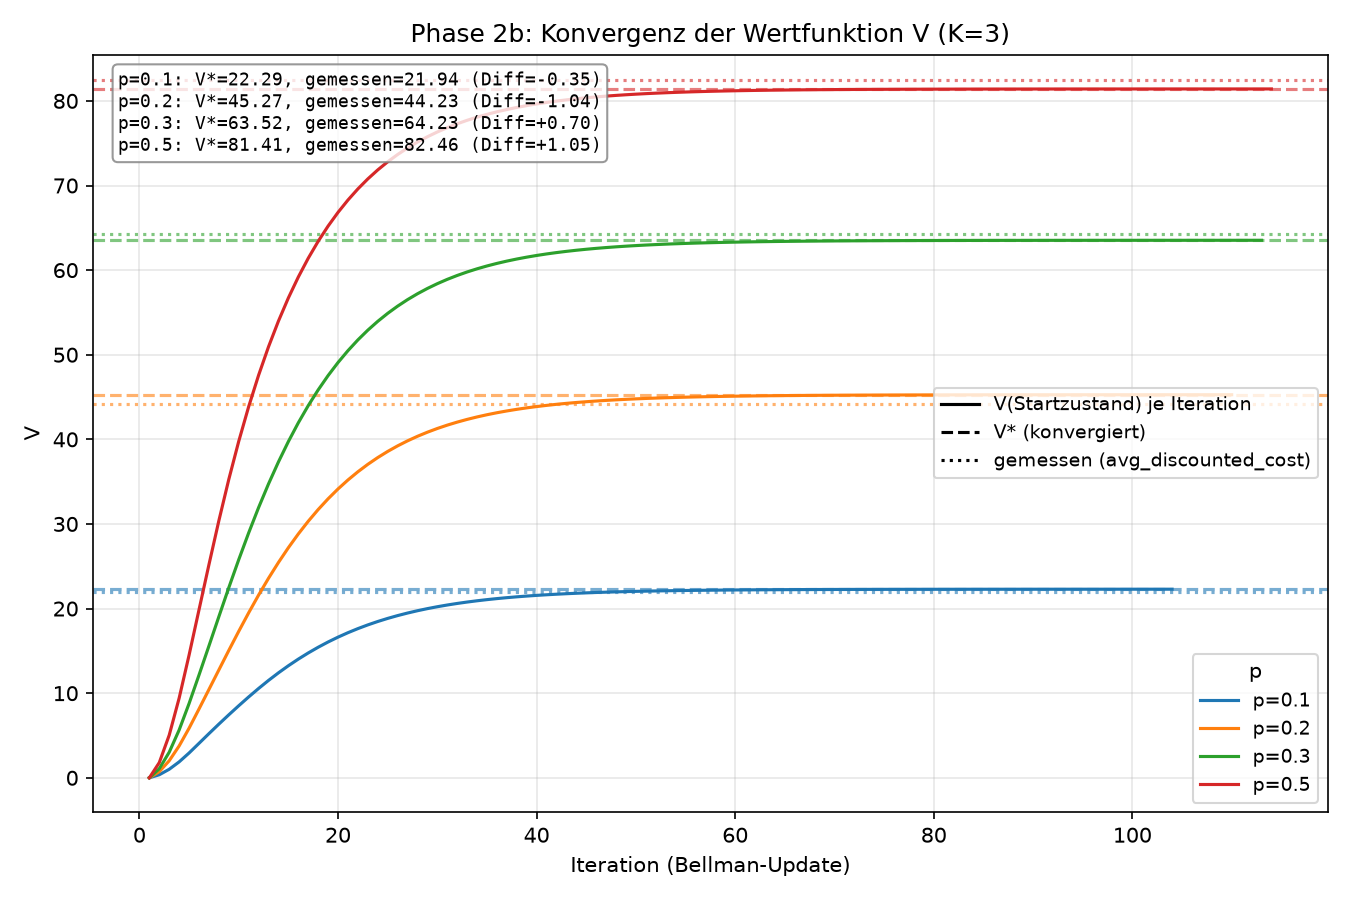
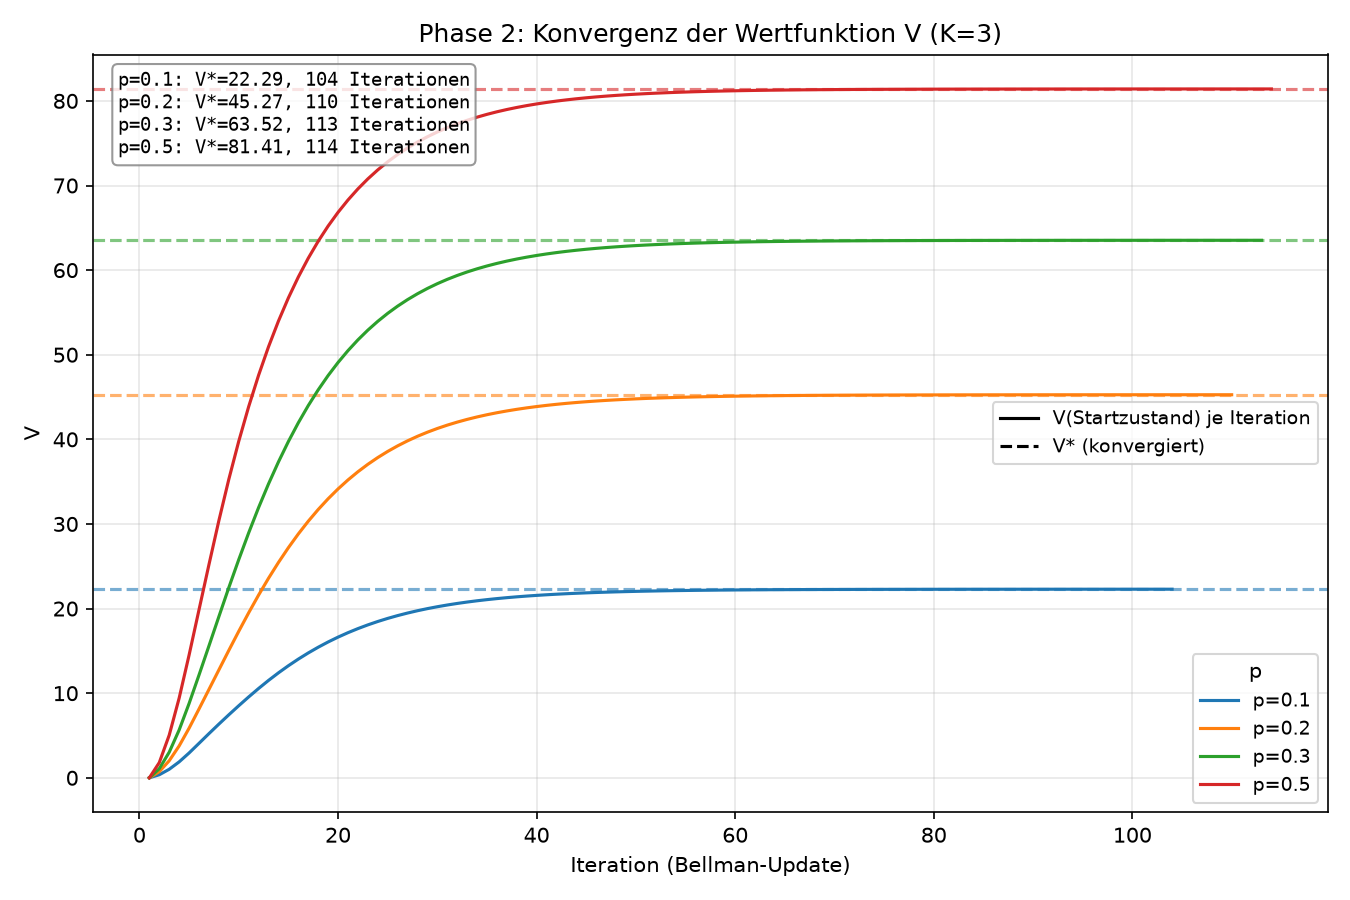
last push

Changed region(s): [[0.0622, 0.0311, 0.7467, 0.1867], [0.6844, 0.4356, 0.9956, 0.5289]]

diff --git a/main.py b/main.py
@@ -12,6 +12,7 @@ ein Upsert - ein erneuter Lauf mit gleichem p/K ersetzt nur die jeweilige
 Zeile, alle anderen p/K-Kombinationen bleiben unberuehrt erhalten).
 """
 
+import csv
 import os
 import random
 
@@ -162,7 +163,7 @@ def plot_phase2b_results(results_by_p, K, path=None):
 
     ax_cost.plot(ps, series("phase2b_random", "avg_cost_per_step"), marker="o", label="Random")
     ax_cost.plot(ps, series("phase2b_vi_realistic", "avg_cost_per_step"), marker="o", label="Value Iteration")
-    ax_cost.set_xlabel("p (Ankunftswahrscheinlichkeit)")
+    ax_cost.set_xlabel("p (Auftrittswahrscheinlichkeit)")
     ax_cost.set_ylabel("avg_cost_per_step")
     ax_cost.set_title(f"Phase 2b: Kosten/Schritt (K={K})")
     ax_cost.legend()
@@ -170,7 +171,7 @@ def plot_phase2b_results(results_by_p, K, path=None):
 
     ax_duration.plot(ps, series("phase2b_random", "avg_trip_duration"), marker="o", label="Random")
     ax_duration.plot(ps, series("phase2b_vi_realistic", "avg_trip_duration"), marker="o", label="Value Iteration")
-    ax_duration.set_xlabel("p (Ankunftswahrscheinlichkeit)")
+    ax_duration.set_xlabel("p (Auftrittswahrscheinlichkeit)")
     ax_duration.set_ylabel("avg_trip_duration (Schritte)")
     ax_duration.set_title(f"Phase 2b: Fahrtdauer (K={K})")
     ax_duration.legend()
@@ -185,7 +186,7 @@ def plot_phase2b_results(results_by_p, K, path=None):
     print(f"Plot gespeichert nach: {path}")
 
 
-def plot_convergence(histories_by_p, results_by_p, K, policy_label, title, y_label="V", path=None):
+def plot_convergence(histories_by_p, K, title, y_label="V", path=None):
     """Konvergenz der Wertfunktion V (Value Iteration) fuer ALLE p in EINEM
     Plot, je p eine eigene Farbe: X-Achse = Iteration der Value Iteration (die
     "Zeitschritte" des Bellman-Updates, NICHT Simulationsschritte), Y-Achse =
@@ -193,25 +194,16 @@ def plot_convergence(histories_by_p, results_by_p, K, policy_label, title, y_lab
     vi.run(return_history=True), siehe
     Phases/value_iteration/base.py::ValueIterationBase.run()).
 
-    Je p zusaetzlich eingezeichnet (gleiche Farbe, andere Linienart): das
-    final konvergierte V* (gestrichelt) und avg_discounted_cost aus der
-    Simulation (gepunktet) - der Unterschied zwischen beiden ist KEINE
-    Ungenauigkeit der Value Iteration (die rechnet exakt), sondern eine
-    Gegenprobe: V* ist exakt berechnet, avg_discounted_cost ist ein
-    simulierter Schaetzwert ueber EVAL_EPISODES endliche Episoden - beide
-    sollten nah beieinander liegen (siehe PHASES.md "Zwei getrennte Schritte:
-    Lernen vs. Messen").
-
-    policy_label: Schluessel in results_by_p[p], um an das evaluate()-Ergebnis
-    heranzukommen (z.B. "phase2b_vi_realistic", das run_phase2b() als eines
-    von mehreren Ergebnissen liefert). None, falls results_by_p[p] bereits
-    direkt das evaluate()-Ergebnis ist (Phase 3, siehe run_phase3() - dort
-    gibt es nur EINE Politik statt Random+VI)."""
+    Das ist "Lernfortschritt" im Sinne von Teil (c) der Aufgabenstellung: wie
+    verbessert sich V ueber die Iterationen bis zur Konvergenz - eine rein
+    algorithmusinterne Groesse, ohne Simulation. Je p zusaetzlich das final
+    konvergierte V* (gestrichelt) sowie die Anzahl der bis dahin benoetigten
+    Iterationen (Textbox)."""
     ps = sorted(histories_by_p.keys())
     colors = plt.rcParams["axes.prop_cycle"].by_key()["color"]
 
     fig, ax = plt.subplots(figsize=(9, 6))
-    diffs = []
+    info_lines = []
 
     for i, p in enumerate(ps):
         color = colors[i % len(colors)]
@@ -219,16 +211,11 @@ def plot_convergence(histories_by_p, results_by_p, K, policy_label, title, y_lab
         iterations = [h[0] for h in history]
         v_values = [h[2] for h in history]
         v_star = v_values[-1]
-        result = results_by_p[p][policy_label] if policy_label is not None else results_by_p[p]
-        measured = result["avg_discounted_cost"]
+        n_iterations = iterations[-1]
 
         ax.plot(iterations, v_values, color=color, label=f"p={p}")
         ax.axhline(v_star, color=color, linestyle="--", alpha=0.6)
-        if measured is not None:
-            ax.axhline(measured, color=color, linestyle=":", alpha=0.6)
-            diffs.append(f"p={p}: V*={v_star:.2f}, gemessen={measured:.2f} (Diff={measured - v_star:+.2f})")
-        else:
-            diffs.append(f"p={p}: V*={v_star:.2f}, gemessen=n/a")
+        info_lines.append(f"p={p}: V*={v_star:.2f}, {n_iterations} Iterationen")
 
     ax.set_xlabel("Iteration (Bellman-Update)")
     ax.set_ylabel(y_label)
@@ -236,22 +223,20 @@ def plot_convergence(histories_by_p, results_by_p, K, policy_label, title, y_lab
     ax.grid(True, alpha=0.3)
 
     # zwei getrennte Legenden: Farbe = p (welche Kurve), Linienart = Bedeutung
-    # (Konvergenzkurve/V*/gemessen) - sonst waeren es bei 4 p-Werten x 3
-    # Linien pro p zu viele Eintraege fuer eine einzelne Legende
+    # (Konvergenzkurve/V*) - sonst waeren es bei 4 p-Werten x 2 Linien pro p
+    # zu viele Eintraege fuer eine einzelne Legende
     color_handles = [Line2D([0], [0], color=colors[i % len(colors)], label=f"p={p}") for i, p in enumerate(ps)]
     style_handles = [
         Line2D([0], [0], color="black", linestyle="-", label=f"{y_label}(Startzustand) je Iteration"),
         Line2D([0], [0], color="black", linestyle="--", label=f"{y_label}* (konvergiert)"),
-        Line2D([0], [0], color="black", linestyle=":", label="gemessen (avg_discounted_cost)"),
     ]
     legend_p = ax.legend(handles=color_handles, loc="lower right", title="p", fontsize=9)
     ax.add_artist(legend_p)
     ax.legend(handles=style_handles, loc="center right", fontsize=9)
 
-    # Differenz V* vs. gemessen zusaetzlich als Text ablesbar (nicht nur visuell
-    # als Luecke zwischen gestrichelter/gepunkteter Linie)
+    # Anzahl Iterationen bis Konvergenz zusaetzlich als Text ablesbar
     ax.text(
-        0.02, 0.98, "\n".join(diffs), transform=ax.transAxes, fontsize=8.5,
+        0.02, 0.98, "\n".join(info_lines), transform=ax.transAxes, fontsize=9,
         verticalalignment="top", family="monospace",
         bbox=dict(boxstyle="round", facecolor="white", alpha=0.8, edgecolor="gray"),
     )
@@ -296,7 +281,7 @@ def plot_trip_completion(results_by_p, K, series, title_prefix, path=None):
 
     for label, policy_key in series:
         ax_duration.plot(ps, series_values(policy_key, "avg_trip_duration"), marker="o", label=label)
-    ax_duration.set_xlabel("p (Ankunftswahrscheinlichkeit)")
+    ax_duration.set_xlabel("p (Auftrittswahrscheinlichkeit)")
     ax_duration.set_ylabel("avg_trip_duration (Schritte)")
     ax_duration.set_title(f"{title_prefix}: Fahrtdauer angekommener Fahrten (K={K})")
     ax_duration.legend()
@@ -304,7 +289,7 @@ def plot_trip_completion(results_by_p, K, series, title_prefix, path=None):
 
     for label, policy_key in series:
         ax_ratio.plot(ps, series_values(policy_key, "completion_rate"), marker="o", label=label)
-    ax_ratio.set_xlabel("p (Ankunftswahrscheinlichkeit)")
+    ax_ratio.set_xlabel("p (Auftrittswahrscheinlichkeit)")
     ax_ratio.set_ylabel("completion_rate (angekommen / gesamt gefahren)")
     ax_ratio.set_ylim(0, 1.05)
     ax_ratio.set_title(f"{title_prefix}: Erledigungsquote: angekommen im Verhaeltnis zu allen (K={K})")
@@ -314,6 +299,76 @@ def plot_trip_completion(results_by_p, K, series, title_prefix, path=None):
     fig.tight_layout()
     if path is None:
         path = f"Results/Images/trip_completion_K{K}.png"
+    os.makedirs(os.path.dirname(path) or ".", exist_ok=True)
+    fig.savefig(path, dpi=150)
+    plt.close(fig)
+    print(f"Plot gespeichert nach: {path}")
+
+
+def plot_phase2b_vs_phase3(K, p_values, steps=EVAL_STEPS, n_episodes=EVAL_EPISODES, path=None):
+    """Direkter Vergleich Phase 2b VI vs. Phase 3 ueber p, bei festem K, in
+    EINEM gemeinsamen Chart (zwei Linien je Panel) - anders als
+    plot_trip_completion(), das jede Phase in ein eigenes Bild schreibt.
+    Liest die schon vorhandenen Ergebnisse direkt aus Results/CSV/runs.csv
+    (kein erneuter Value-Iteration-Lauf noetig, falls p/K schon gerechnet
+    wurden - siehe run_phase2b()/run_phase3()).
+
+    Phase 2b und Phase 3 sind bei gleichem p/K direkt vergleichbar (beide
+    werden auf derselben echten ElevatorEnvV2 mit echten Kosten ausgewertet,
+    siehe PHASES.md) - im Gegensatz zu Phase 1/2 (andere Umgebung), die
+    deshalb bewusst NICHT hier mit reingenommen wird.
+
+    WICHTIG: _upsert_row() behandelt steps/n_episodes als Teil des
+    Vergleichsschluessels (nicht als Metrik) - ein Lauf mit anderer
+    Schrittzahl UEBERSCHREIBT eine bestehende Zeile also NICHT, sondern haengt
+    sich als zusaetzliche Zeile an. Es koennen also mehrere Zeilen fuer
+    dieselbe (label, p, K)-Kombination mit unterschiedlichem steps/n_episodes
+    in runs.csv stehen (z.B. ein aelterer 150-Schritte- und ein neuerer
+    100-Schritte-Lauf) - ohne expliziten Filter darauf haengt das Ergebnis
+    von der (nicht garantierten) Zeilenreihenfolge in der Datei ab. Deshalb
+    hier explizit auf steps/n_episodes filtern, statt nur auf (label, p)."""
+    rows = {}
+    with open("Results/CSV/runs.csv", newline="", encoding="utf-8") as f_in:
+        for row in csv.DictReader(f_in):
+            if row["label"] not in ("phase2b_vi_realistic", "phase3_boolean_obs"):
+                continue
+            if row.get("max_wait_per_floor") != str(K):
+                continue
+            if row.get("steps") != str(steps) or row.get("n_episodes") != str(n_episodes):
+                continue
+            rows[(row["label"], float(row["p"]))] = row
+
+    def series(label, field):
+        vals = []
+        for p in p_values:
+            row = rows.get((label, p))
+            v = None if row is None or row[field] in ("", "None") else float(row[field])
+            vals.append(v if v is not None else float("nan"))
+        return vals
+
+    fig, (ax_cost, ax_ratio) = plt.subplots(1, 2, figsize=(11, 4.5))
+
+    ax_cost.plot(p_values, series("phase2b_vi_realistic", "avg_cost_per_step"), marker="o", label="Phase 2")
+    ax_cost.plot(p_values, series("phase3_boolean_obs", "avg_cost_per_step"), marker="o", label="Phase 3")
+    ax_cost.set_xlabel("p (Auftrittswahrscheinlichkeit)")
+    ax_cost.set_ylabel("avg_cost_per_step")
+    ax_cost.set_title(f"Kosten/Schritt (K={K})")
+    ax_cost.legend()
+    ax_cost.grid(True, alpha=0.3)
+
+    ax_ratio.plot(p_values, series("phase2b_vi_realistic", "completion_rate"), marker="o", label="Phase 2")
+    ax_ratio.plot(p_values, series("phase3_boolean_obs", "completion_rate"), marker="o", label="Phase 3")
+    ax_ratio.set_xlabel("p (Auftrittswahrscheinlichkeit)")
+    ax_ratio.set_ylabel("completion_rate")
+    ax_ratio.set_ylim(0, 1.05)
+    ax_ratio.set_title(f"Erledigungsquote (K={K})")
+    ax_ratio.legend()
+    ax_ratio.grid(True, alpha=0.3)
+
+    fig.suptitle("Phase 2 vs. Phase 3 (gleiche echte Umgebung)")
+    fig.tight_layout()
+    if path is None:
+        path = f"Results/Images/phase2b_vs_phase3_K{K}.png"
     os.makedirs(os.path.dirname(path) or ".", exist_ok=True)
     fig.savefig(path, dpi=150)
     plt.close(fig)
@@ -346,8 +401,8 @@ if __name__ == "__main__":
     #     # nichts wird zwischen K=2 und K=3 ueberschrieben.
     #     plot_phase2b_results(all_results, K)
     #     plot_convergence(
-    #         all_histories, all_results, K, "phase2b_vi_realistic",
-    #         title=f"Phase 2b: Konvergenz der Wertfunktion V (K={K})",
+    #         all_histories, K,
+    #         title=f"Phase 2: Konvergenz der Wertfunktion V (K={K})",
     #         path=f"Results/Images/phase2b_convergence_K{K}.png",
     #     )
     #     plot_trip_completion(
@@ -371,8 +426,8 @@ if __name__ == "__main__":
             all_results_p3[p], all_histories_p3[p] = run_phase3(p, K3)
 
         plot_convergence(
-            all_histories_p3, all_results_p3, K3, None,
-            title=f"Phase 3: Konvergenz der Naeherungs-Wertfunktion V_approx (gemessen auf K={K3})",
+            all_histories_p3, K3,
+            title="Phase 3: Konvergenz der Naeherungs-Wertfunktion V_approx",
             y_label="V_approx",
             path=f"Results/Images/phase3_convergence_K{K3}.png",
         )
@@ -382,3 +437,8 @@ if __name__ == "__main__":
             title_prefix="Phase 3",
             path=f"Results/Images/phase3_trip_completion_K{K3}.png",
         )
+
+    # Direkter Vergleich Phase 2b vs. Phase 3 in einem gemeinsamen Chart (fuer
+    # die Ergebnis-Folie) - liest die oben bereits berechneten/aktualisierten
+    # Ergebnisse direkt aus Results/CSV/runs.csv, kein erneuter VI-Lauf noetig.
+    plot_phase2b_vs_phase3(K=3, p_values=P_VALUES)
